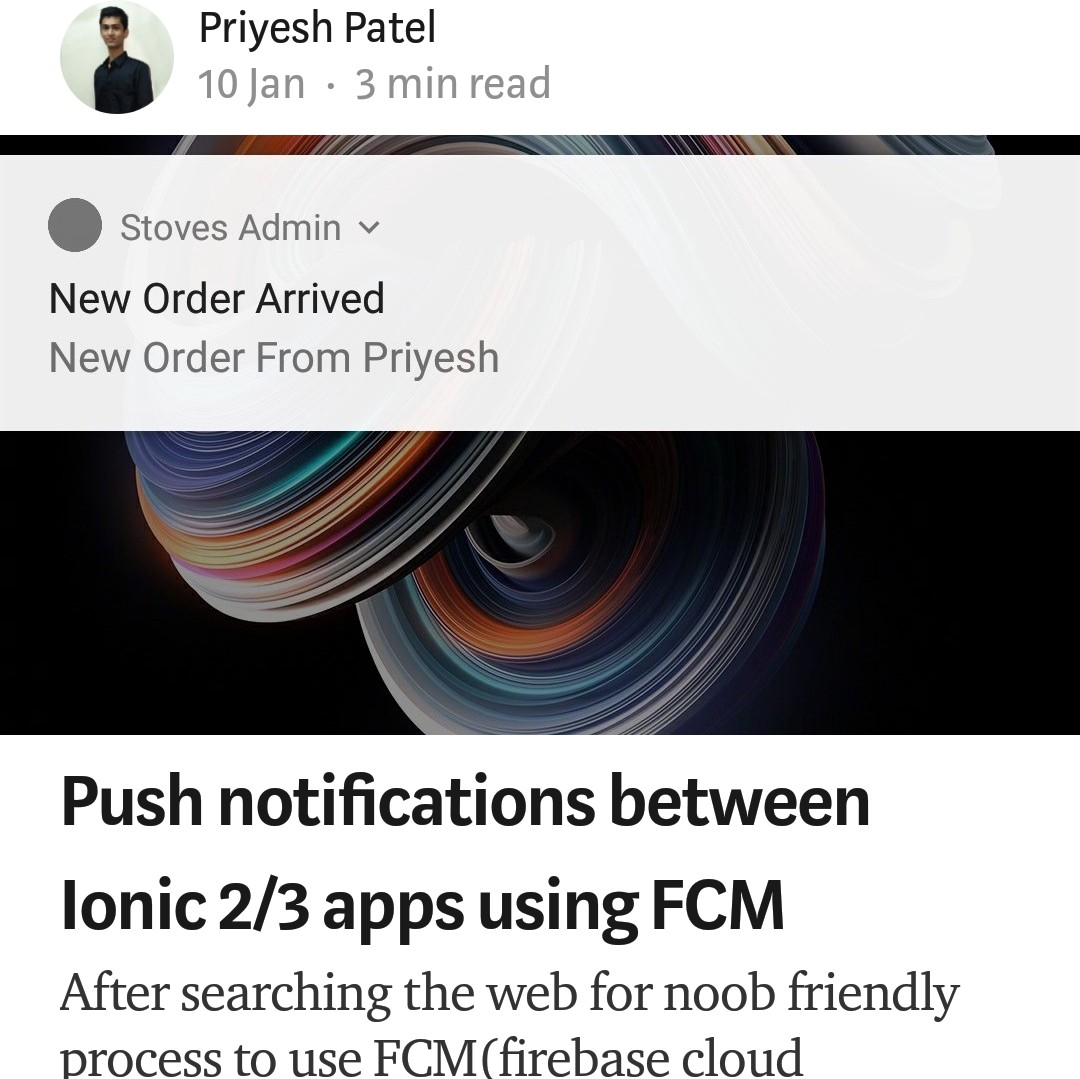
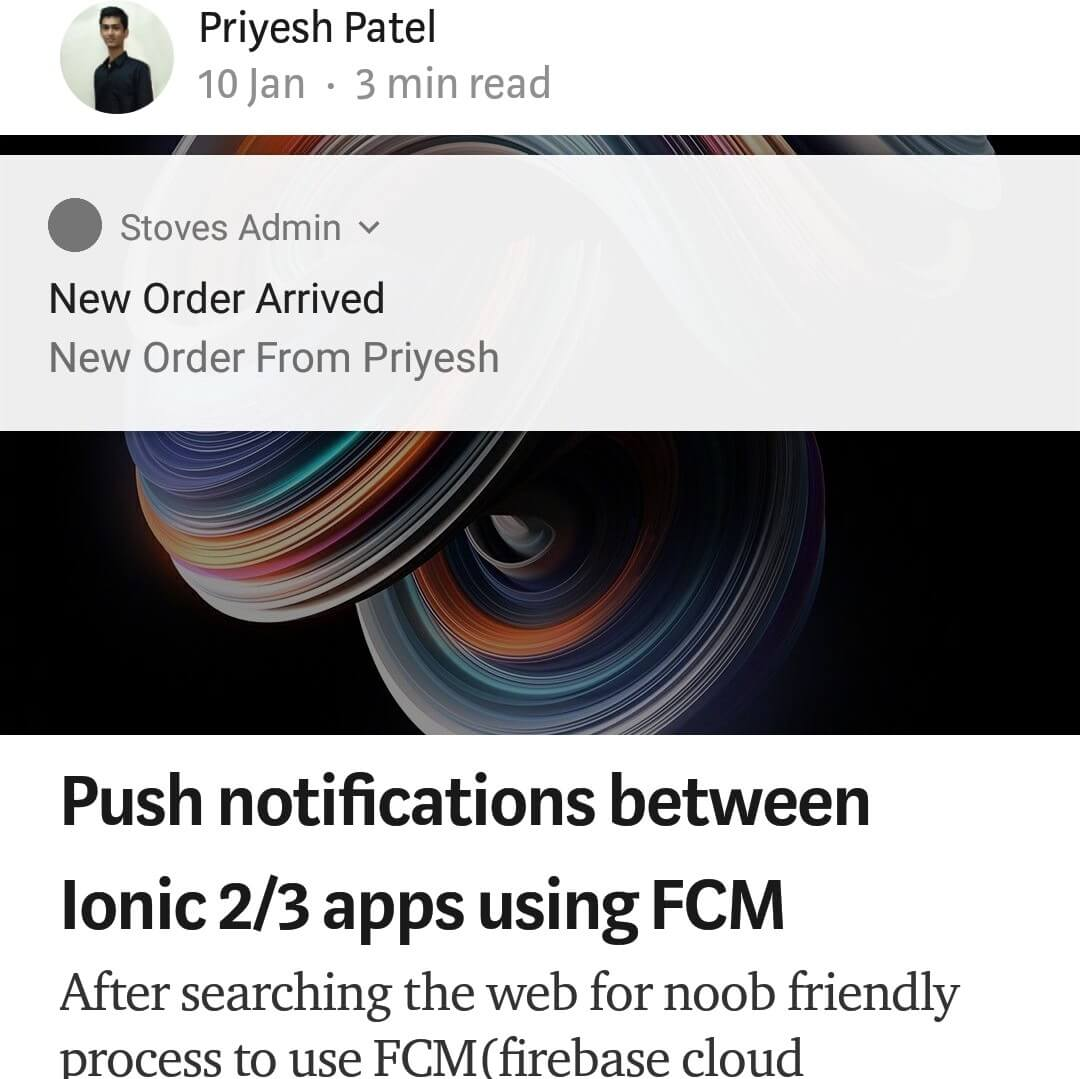
reduce image size fix typo

diff --git a/index.html b/index.html
@@ -14,7 +14,7 @@
   <link rel="icon" type="image/x-icon" href="assets/icon/favicon.ico">
   <link rel="manifest" href="manifest.json">
   <meta name="theme-color" content="#4e8ef7">
-  <meta name="description" content="Priyesh Patel is a IT engineering student and web/hybrid app developer.">
+  <meta name="description" content="Priyesh Patel is an IT engineering student and web/hybrid app developer.">
 
   <!-- add to homescreen for ios -->
   <meta name="apple-mobile-web-app-capable" content="yes">
